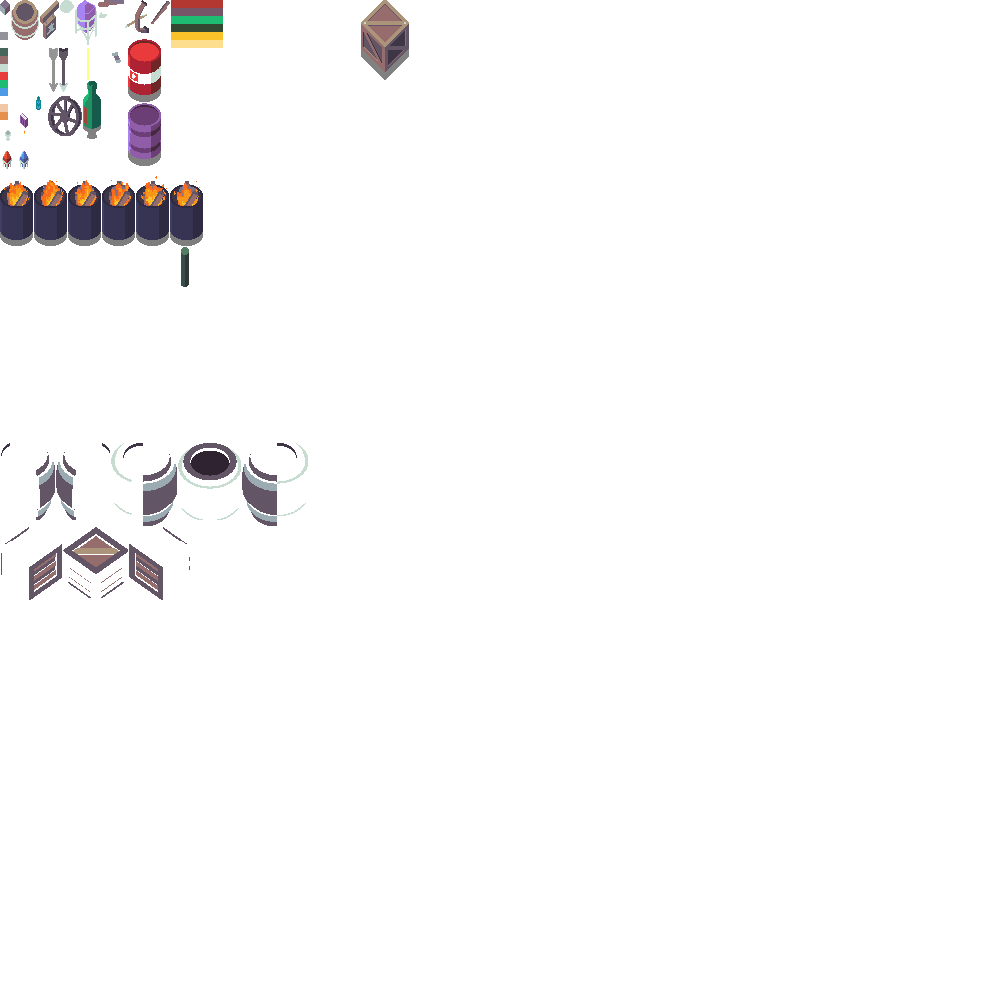
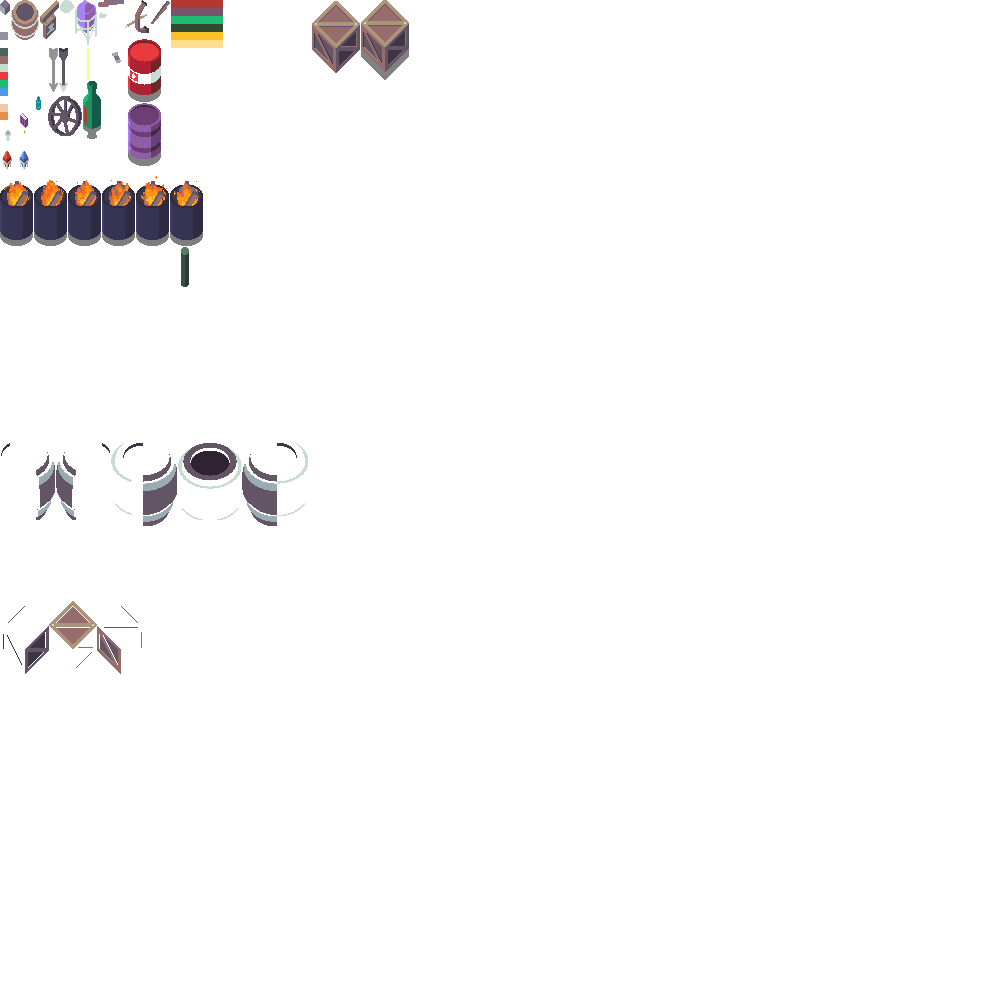
0.8.2768

Changed region(s): [[0.0, 0.527, 0.186, 0.682], [0.31, 0.0, 0.372, 0.093]]

diff --git a/gamestream_flutter/lib/gamestream/isometric/components/render/renderer_gameobjects.dart b/gamestream_flutter/lib/gamestream/isometric/components/render/renderer_gameobjects.dart
@@ -166,13 +166,22 @@ class RendererGameObjects extends RenderGroup {
       final gameObjectIndex = scene.getIndexPosition(gameObject);
       final dstX = gameObject.renderX;
       final dstY = gameObject.renderY;
-      final sprite = images.crate;
-      const scale = goldenRatio_0381;
+
+      const scale = goldenRatio_0618;
       const anchorY = 0.8;
 
-      render.sprite(
-        sprite: sprite,
-        frame: sprite.getFrame(row: 0, column: 0),
+      const srcX = 1.0;
+      const srcY = 601.0;
+      const width = 48.0;
+      const height = 73.0;
+      final image = images.atlas_gameobjects;
+
+      engine.renderSprite(
+        image: image,
+        srcX: srcX,
+        srcY: srcY,
+        srcWidth: width,
+        srcHeight: height,
         dstX: dstX,
         dstY: dstY,
         color: scene.colorSouth(gameObjectIndex),
@@ -180,9 +189,12 @@ class RendererGameObjects extends RenderGroup {
         anchorY: anchorY,
       );
 
-      render.sprite(
-        sprite: sprite,
-        frame: sprite.getFrame(row: 0, column: 1),
+      engine.renderSprite(
+        image: image,
+        srcX: srcX + width,
+        srcY: srcY,
+        srcWidth: width,
+        srcHeight: height,
         dstX: dstX,
         dstY: dstY,
         color: scene.colorAbove(gameObjectIndex),
@@ -190,14 +202,17 @@ class RendererGameObjects extends RenderGroup {
         anchorY: anchorY,
       );
 
-      render.sprite(
-          sprite: sprite,
-          frame: sprite.getFrame(row: 0, column: 2),
-          dstX: dstX,
-          dstY: dstY,
-          color: scene.colorWest(gameObjectIndex),
-          scale: scale,
-          anchorY: anchorY,
+      engine.renderSprite(
+        image: image,
+        srcX: srcX + width + width,
+        srcY: srcY,
+        srcWidth: width,
+        srcHeight: height,
+        dstX: dstX,
+        dstY: dstY,
+        color: scene.colorWest(gameObjectIndex),
+        scale: scale,
+        anchorY: anchorY,
       );
 
       return;

diff --git a/gamestream_flutter/lib/gamestream/isometric/components/isometric_images.dart b/gamestream_flutter/lib/gamestream/isometric/components/isometric_images.dart
@@ -66,7 +66,6 @@ class IsometricImages with IsometricComponent {
   late final Sprite crystalSouth;
   late final Sprite crystalWest;
   late final Sprite barrelWooden;
-  late final Sprite crate;
 
   late final CharacterSpriteGroup spriteGroupEmpty;
 
@@ -494,14 +493,6 @@ class IsometricImages with IsometricComponent {
         atlasX: 1,
         atlasY: 443,
     ).then((value) => barrelWooden = value);
-
-    loadSprite(
-        name: 'sprites/isometric/gameobjects/crate',
-        image: atlas_gameobjects,
-        mode: AnimationMode.single,
-        atlasX: 1,
-        atlasY: 527,
-    ).then((value) => crate = value);
 
     itemTypeAtlases = {
       ItemType.Weapon: atlas_weapons,

diff --git a/bleed-common/lib/src/version.dart b/bleed-common/lib/src/version.dart
@@ -1,4 +1,4 @@
-const version = '0.8.2767';
+const version = '0.8.2768';
 
 
 

diff --git a/gamestream_flutter/lib/packages/common/src/version.dart b/gamestream_flutter/lib/packages/common/src/version.dart
@@ -1,4 +1,4 @@
-const version = '0.8.2767';
+const version = '0.8.2768';
 
 
 

diff --git a/gamestream_ws/lib/packages/common/src/version.dart b/gamestream_ws/lib/packages/common/src/version.dart
@@ -1,4 +1,4 @@
-const version = '0.8.2767';
+const version = '0.8.2768';
 
 
 

diff --git a/gamestream_flutter/README.md b/gamestream_flutter/README.md
@@ -17,12 +17,12 @@ ctrl + []               : move caret to code block
 * [fix]: ai stuttering on idle
 * [fix]: colored particle emission
 * [new]: particle wind blowing 
-* [new]: gameobject wooden crate
 * [new]: flames emit smoke particles
 * [new]: design map 0
 * [new]: item tabs weapons amulets etc
 
 ## 08.11.2023
+* [new]: gameobject wooden crate
 * [fix]: gameobject persistence
 * [fix]: incorrect particle type
 
